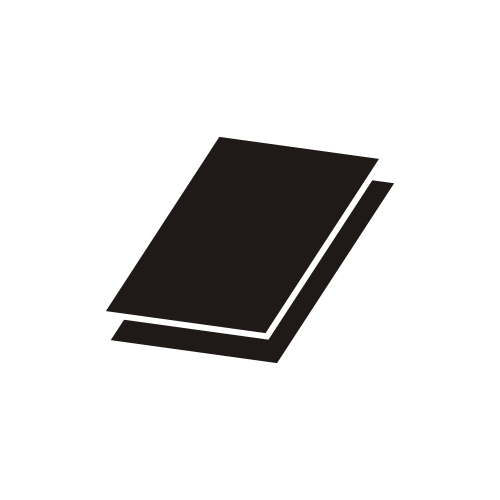
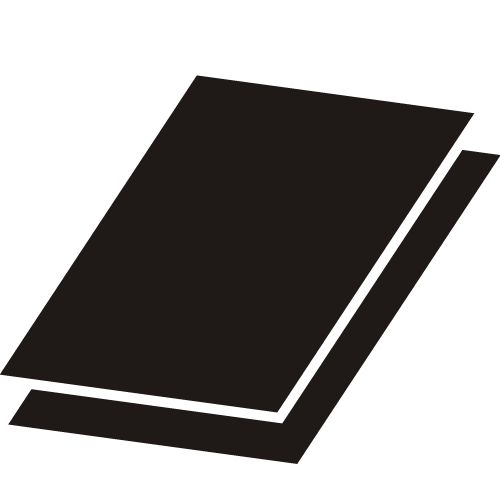
Updated home page with new images

diff --git a/static/home.html b/static/home.html
@@ -14,14 +14,14 @@
 	<div class="home-row">
 		<div class="home-icon">
 			<a href="create">
-				<img src="img/noun_project_643.png" width="150" height="83">
-				Create
+				<img src="img/noun_project_3927.png" width="100px" height="100px">
+				<p>Create</p>
 			</a>
 		</div>
 
 		<div class="home-icon">
 			<a href="myprototypes">
-				<img src="img/noun_project_10986.png" width="150px" height="150px">
+				<img src="img/noun_project_10986.png" width="100px" height="100px">
 				<p>	My Prototypes </p>
 			</a>
 		</div>
@@ -30,14 +30,14 @@
 	<div class="home-row">
 		<div class="home-icon">
 			<a href="analytics">
-				<img src="img/noun_project_2778.png" width="100px" height="100px">
+				<img src="img/noun_project_2778.png" width="90px" height="90px" style="margin-bottom:10px">
 				<p> Analytics </p>
 			</a>
 		</div>
 
 		<div class="home-icon">
 			<a href="settings">
-				<img src="img/noun_project_11801.png" width="100px" height="100px">
+				<img src="img/noun_project_11801.png" width="90px" height="90px" style="margin-bottom:10px">
 				<p> Settings </p>
 			</a>
 		</div>

diff --git a/static/css/style.css b/static/css/style.css
@@ -155,14 +155,25 @@ input[type=submit]{
 /* Home
  * --------------------------------------------------------------------------*/
 .home-row{
+	height: 45%;
 }
 
 .home-icon{
 	display: inline-block;
 	width: 45%;
-	height: 45%;
 	text-align: center;
 	clear: both;
 	font-weight: 600;
+	margin-bottom: 5%;
+}
+
+.home-icon img{
+	display: block;
+	margin-left: auto;
+	margin-right: auto;
+}
+
+.home-icon p{
+	margin-top: 0px;
 }
 
